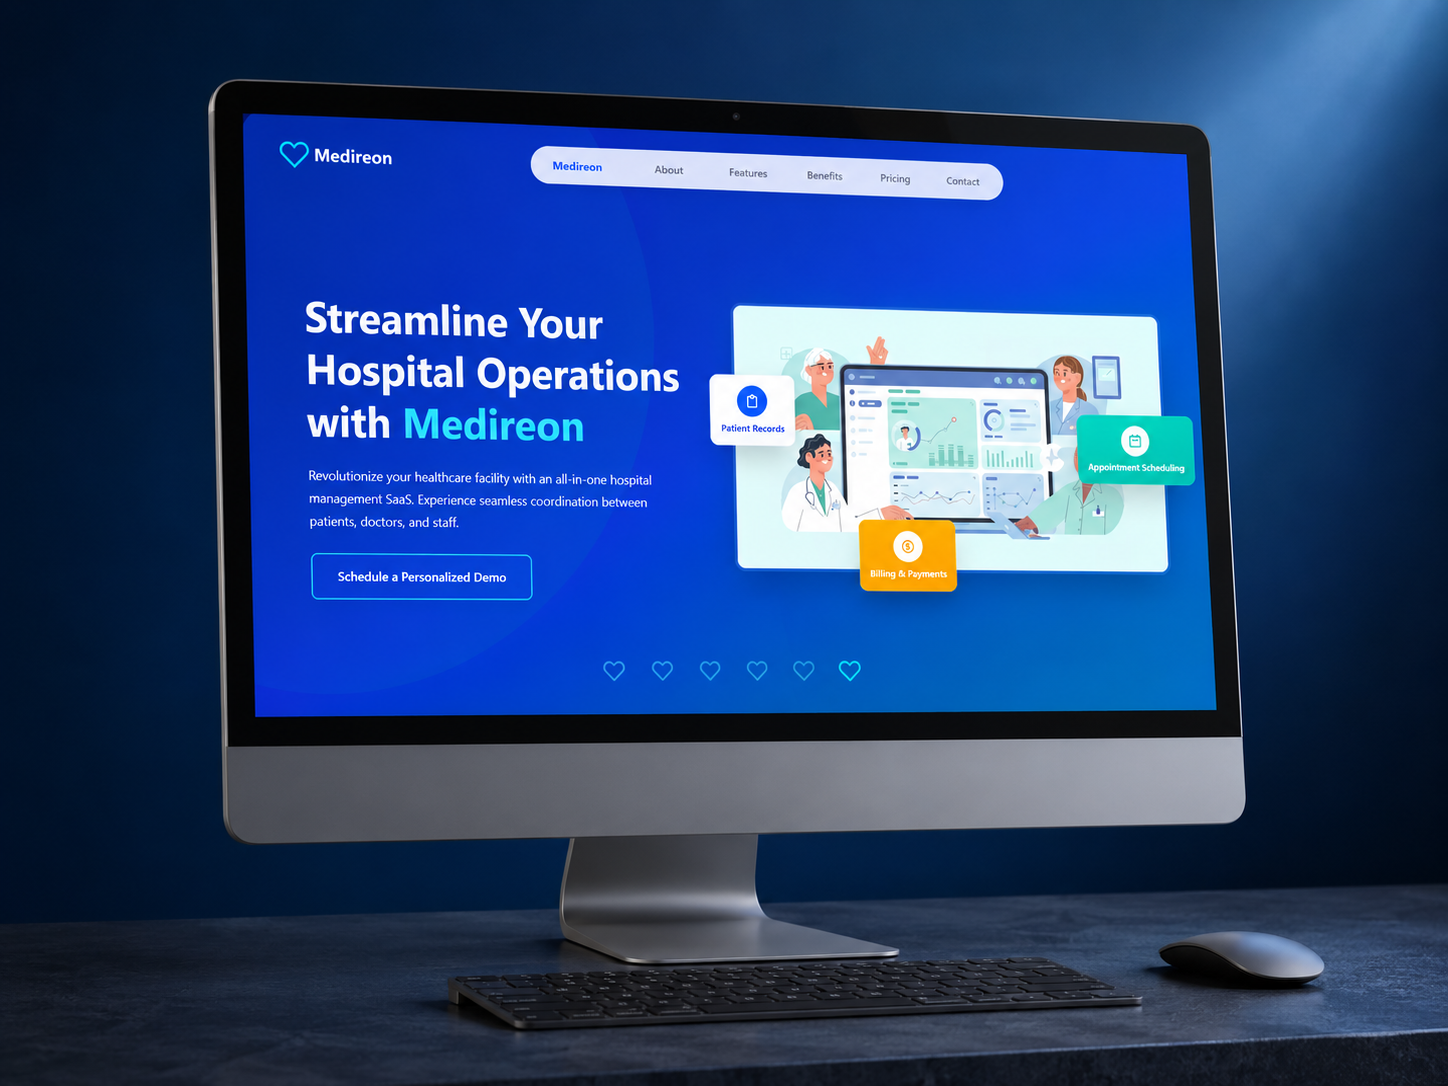
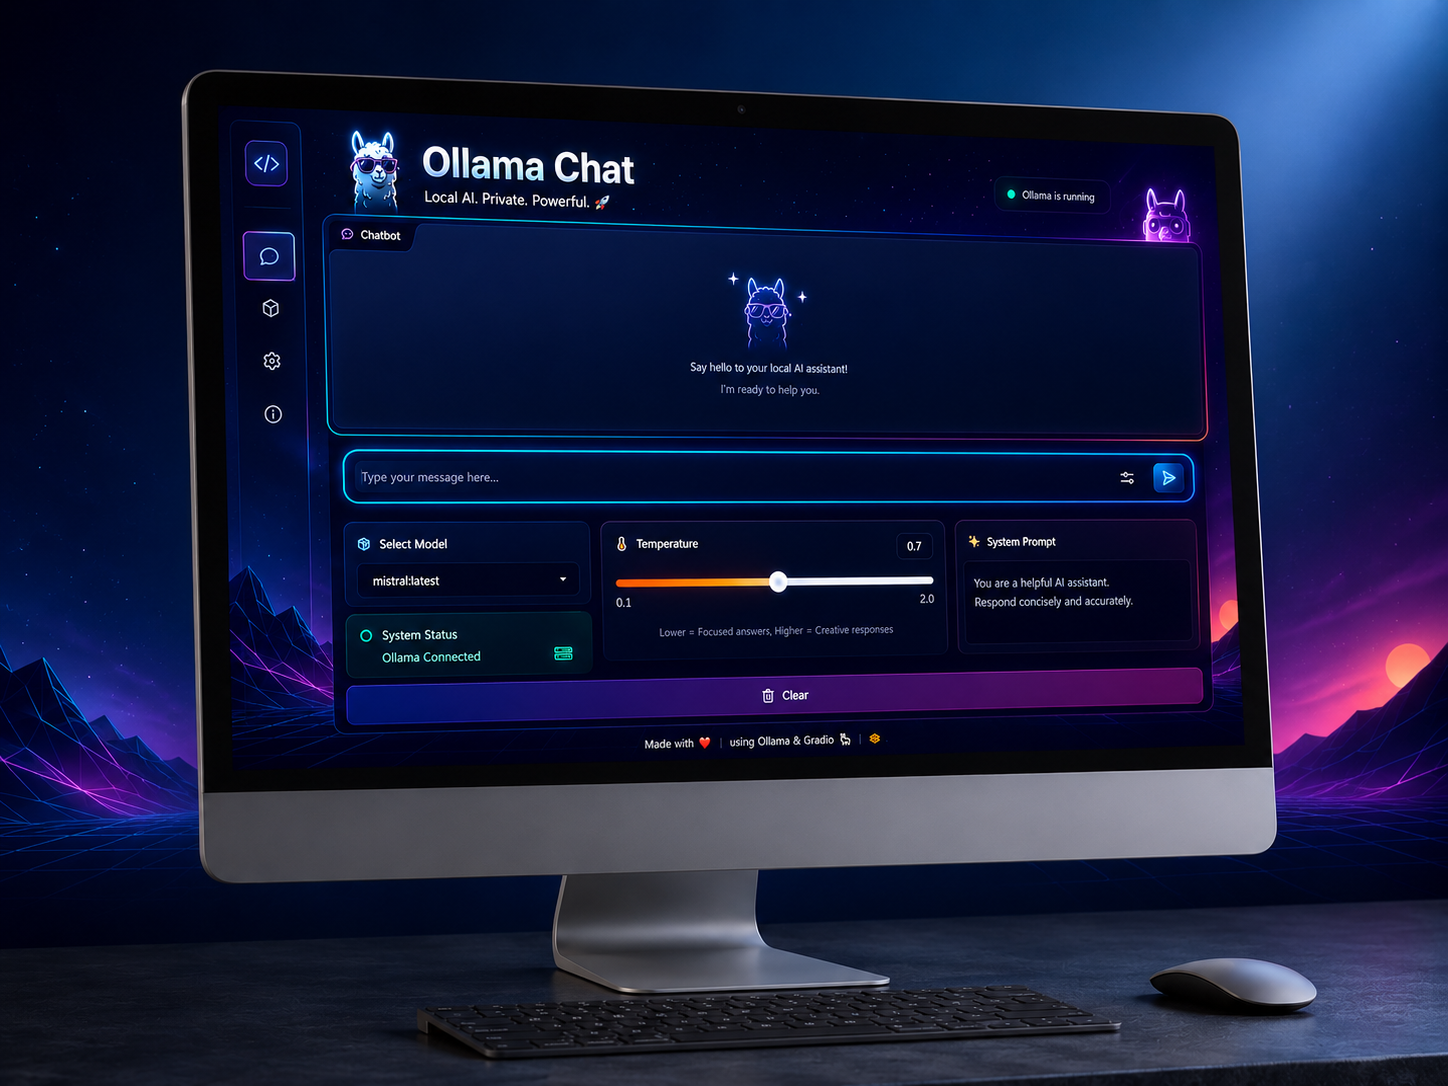
update project

diff --git a/app/_lib/constants.ts b/app/_lib/constants.ts
@@ -131,41 +131,40 @@ export const portfolioProjects = [
   {
     id: "project2",
     heading: "Medireon Health",
-    subheading: "Healthcare management and medical services platform",
+    subheading: "Local AI chatbot powered by Ollama and Gradio",
     description:
-      "This is a healthcare SaaS platform focused on hospital management systems, patient workflows, billing, appointments, pharmacy modules, and administration systems. It feels like a real production healthcare dashboard product.",
+      "This is a self-hosted conversational AI application designed for local LLM deployment, prompt engineering, and model experimentation. Built with Python and Gradio, it enables users to interact with multiple Ollama-powered language models through an intuitive and responsive chat interface.",
     imageUrl: "/imgs/projects/portfolio-mockup5.png",
     techStack: [
-      "React.js",
-      "Node.js / Express.js",
-      "PostgreSQL or MongoDB",
-      "JWT Authentication",
-      "Docker",
+      "Phython",
+      "Ollama",
+      "Gradio",
     ],
-    liveDemoUrl: "https://www.medireonhealth.com/",
-    sourceCodeUrl: "https://github.com/fire-butterfly08/Discord-Bot-Website-Template",
+    liveDemoUrl: "Local_chatGPT",
+    sourceCodeUrl: "https://github.com/fire-butterfly08/Local_ChatGPT",
   },
   {
     id: "project3",
-    heading: "SpurtCommerce",
-    subheading: "Open-source e-commerce marketplace platform",
+    heading: "OTTO",
+    subheading: "leading online marketplace for fashion, furniture, and lifestyle products.",
     description:
-      "Spurtcommerce is an open-source multi-vendor ecommerce platform designed for scalable marketplace systems, headless commerce architecture, and enterprise-level online business solutions.",
+      "OTTO is a major e-commerce platform offering a wide range of products from fashion to home goods. It operates as both a retailer and marketplace, connecting customers with third-party sellers and focusing on scalable, AI-driven online shopping experiences.",
     imageUrl: "/imgs/projects/portfolio-mockup2.png",
     techStack: [
       "React",
-      "Angular",
       "Next.js",
-      "Node.js",
-      "Express.js",
-      "GraphQL",
+      "Java",
+      "Spring Boot",
+      "Microservices",
+      "MongoDB",
       "PostgreSQL",
       "TypeScript",
-      "Flutter",
+      "Redis",
       "Docker",
-      "AWS",
+      "Kubernetes",
+      "AWS"
     ],
-    liveDemoUrl: "https://www.spurtcommerce.com/",
+    liveDemoUrl: "https://www.otto.de/",
     sourceCodeUrl: "#",
   },
   {
@@ -204,21 +203,25 @@ export const portfolioProjects = [
   },
   {
     id: "project6",
-    heading: "NexelioHealth",
-    subheading: "Healthcare technology and patient care platform",
+    heading: "Glovo",
+    subheading: "On-demand delivery platform for food, groceries, and everyday essentials.",
     description:
-      "This is a healthcare software development agency focused on telehealth, EHR integrations, patient portals, and healthcare SaaS systems. It looks highly realistic for portfolio inspiration because it combines software engineering with healthcare operations.",
+      "Glovo is a delivery app that connects users with couriers and local businesses to deliver food, groceries, and other items quickly. It works as a real-time logistics marketplace focused on fast, city-based on-demand delivery services.",
     imageUrl: "/imgs/projects/portfolio-mockup3.png",
     techStack: [
+      "React",
       "Node.js",
-      "React.js",
-      "TypeScript",
+      "Python",
+      "Java",
+      "Microservices",
       "PostgreSQL",
-      "AWS",
+      "MongoDB",
+      "Redis",
+      "Google Maps API",
       "Docker",
-      "REST APIs",
+      "AWS" 
     ],
-    liveDemoUrl: "https://www.nexeliohealth.com/",
+    liveDemoUrl: "https://glovoapp.com/en",
     sourceCodeUrl: "#",
   },
 ];